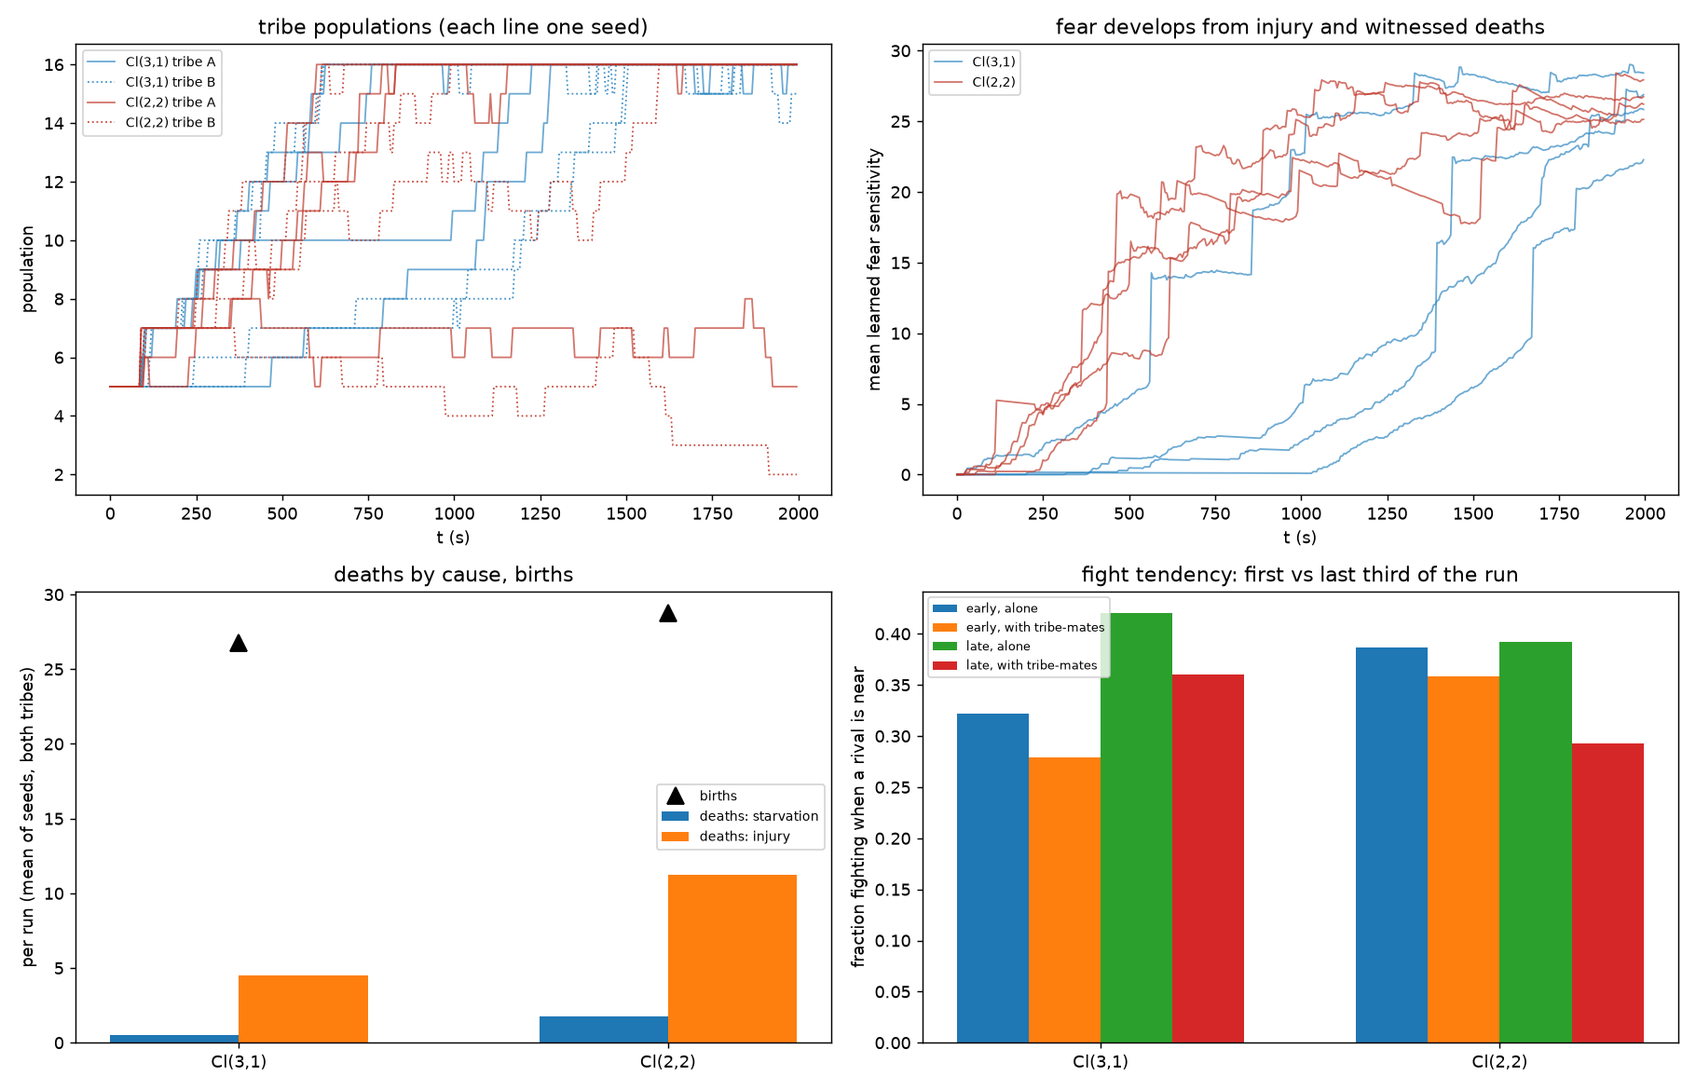
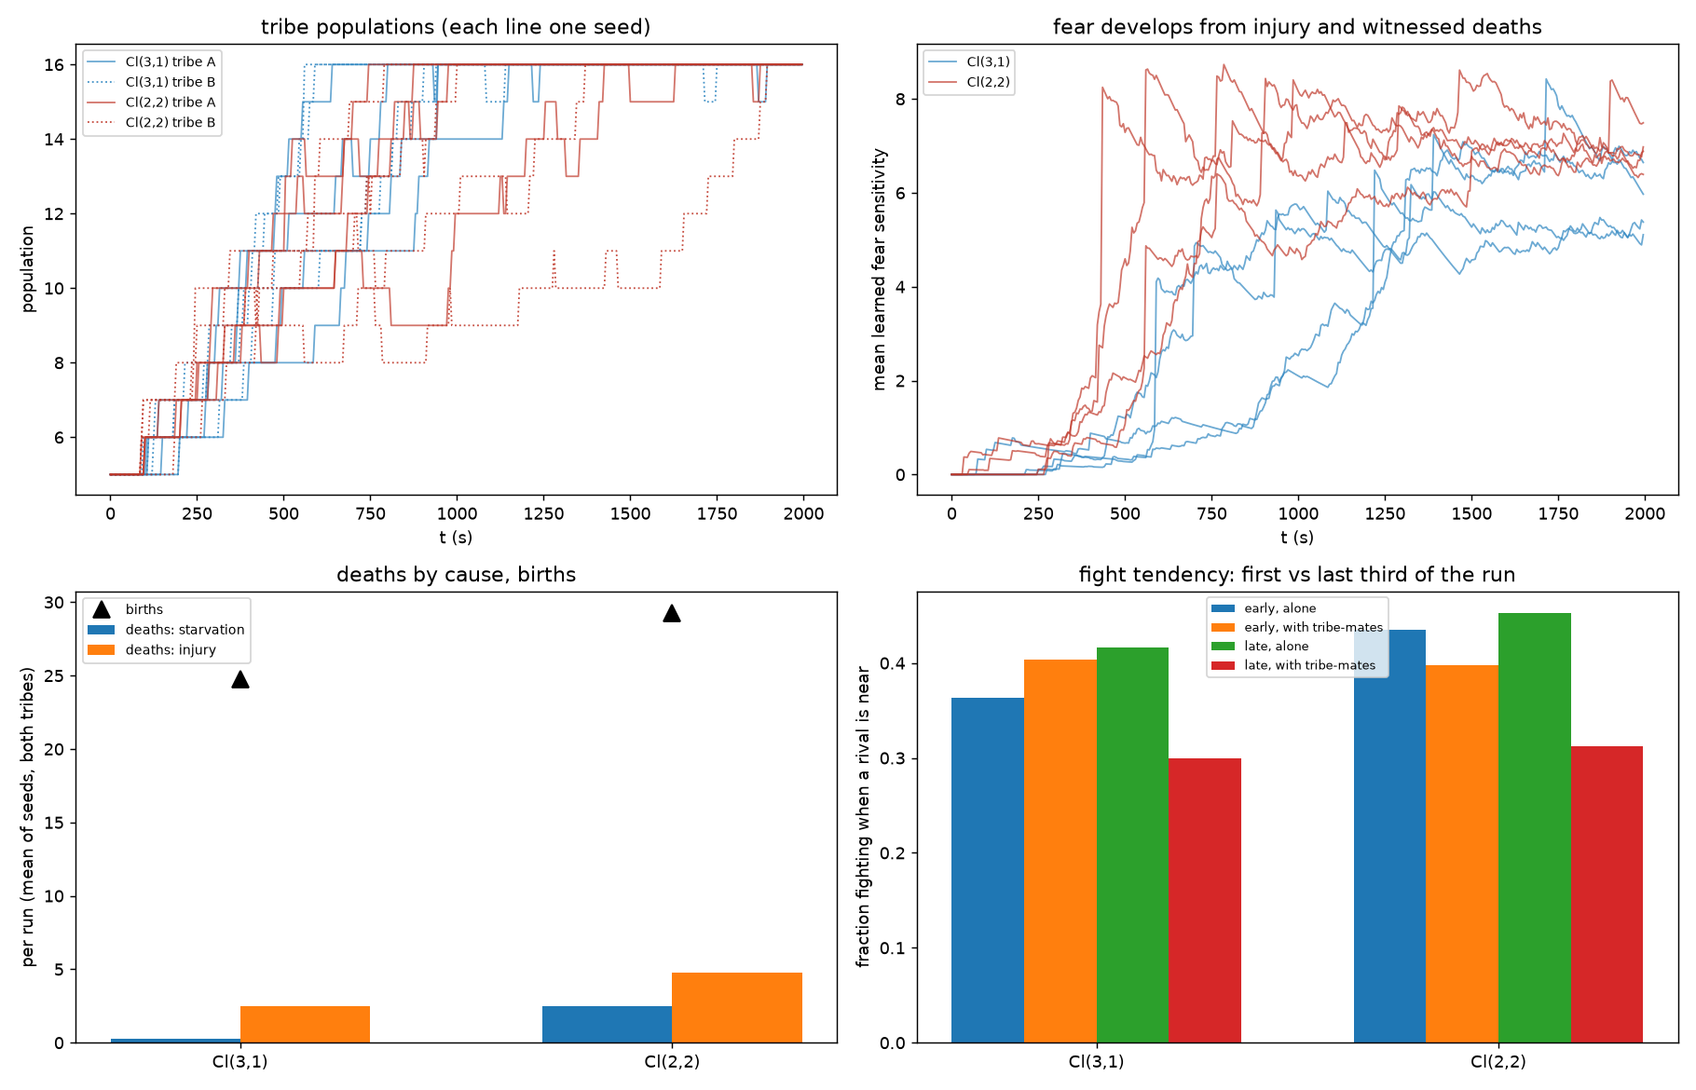
Contextual fear, danger-cue dread recall, fear cap, bigger world, false food
- Fear is scaled by being outnumbered: perceived threat * rivals in view /
  (1 + allies near). Fear sensitivity is capped at 12 and fades 4x faster.
- Dread (imprinted) memories are matched on danger cues only (rival closing
  speed, rival distance, health, allies near) via a per-memory feature mask
  in the 512-byte record; other memories match on all features.
- Full-life world is 200 x 200 (homes and fixed food sites scaled), with
  food supply scaled to the area.
- False food: 30% of patches look like food but give no satiety, never
  deplete and expire after 240 s; an agent learns a patch is false by trying
  to eat there for 2 s and then ignores it. The viewer marks them.
- E9 re-run; 93 tests.

diff --git a/cliffnpc/arena.py b/cliffnpc/arena.py
@@ -37,6 +37,9 @@ from .steering import steer
 
 NPC_FACTION, RIVAL_FACTION = "npc", "rival"     # legacy arena: NPC pack vs anti-social rival
 TRIBE_A, TRIBE_B = "A", "B"                       # tribes arena: two identical tribes
+# sense features (sense_vector): food dist, closing, peers, from home, rival dist, health,
+# pain, allies.  Dread memories are matched on the danger cues only.
+DANGER_MASK = np.array([0, 1, 0, 0, 1, 1, 0, 1], dtype=np.float32)
 
 
 def npc_cognition() -> CognitionConfig:
@@ -96,11 +99,14 @@ def life_config(signature=(1.0, 1.0, 1.0, -1.0), seed: int = 0, sat_gain: float 
     (death, birth, inheritance, witnessing, injury reflex), learned fear, the
     saturation law and finite moving food, with one drive signature for every agent."""
     cfg = ArenaConfig(seed=seed, ltm=LTMConfig(), life=LifeConfig(), signature=signature,
-                      tribes=True, home=(15.0, 50.0), lair=(85.0, 50.0),
-                      food=((50.0, 30.0), (50.0, 70.0)),       # fixed sites, equidistant
-                      food_dynamics=FoodConfig())
+                      tribes=True, home=(30.0, 100.0), lair=(170.0, 100.0),
+                      food=((100.0, 60.0), (100.0, 140.0)),    # fixed sites, equidistant
+                      food_dynamics=FoodConfig(max_patches=6, spawn_rate=1.0 / 30.0,
+                                               false_fraction=0.3))
+    cfg.base.world.size = 200.0        # a bigger world: room to explore and to miss each other
     for a in (cfg.npc_affect, cfg.rival_affect):
-        a.fear_from_injury, a.fear_from_death, a.fear_decay = 10.0, 10.0, 0.0005
+        a.fear_from_injury, a.fear_from_death, a.fear_decay = 10.0, 10.0, 0.002
+        a.fear_max = 12.0              # fear cannot saturate into a constant pain
     for c in (cfg.npc_cog, cfg.rival_cog):
         c.sat_gain = sat_gain
         c.hunger_drift = 0.08          # hunger builds faster ...
@@ -128,6 +134,8 @@ class Agent:
     replaying: int = -1         # memory slot being replayed (-1: none)
     slot: int = -1              # index in the capacity-wide logs
     known_food: dict = field(default_factory=dict)   # patch id -> position (seen, finite food)
+    known_false: set = field(default_factory=set)    # patch ids found to be false food
+    probe: dict = field(default_factory=dict)         # patch id -> seconds tried without satiety
     generation: int = 0
     born: float = 0.0
     last_birth: float = -1e9
@@ -235,10 +243,18 @@ class Arena:
         m = self.fd.margin
         return self.food_rng.uniform(m, self.wcfg.size - m, 2)
 
-    def _spawn(self, pos: np.ndarray, stock: float) -> None:
-        self.patches.append(dict(id=self._patch_id, pos=pos, stock=stock, stock0=stock))
-        self.food_events.append(dict(t=self.t, what="spawned", id=self._patch_id, pos=pos.copy()))
+    def _spawn(self, pos: np.ndarray, stock: float, false: bool = False) -> None:
+        self.patches.append(dict(id=self._patch_id, pos=pos, stock=stock, stock0=stock,
+                                 false=false, born=self.t))
+        self.food_events.append(dict(t=self.t, what="spawned", id=self._patch_id, pos=pos.copy(),
+                                     false=false))
         self._patch_id += 1
+
+    def _eating(self, a: Agent) -> bool:
+        """At a real patch with stock left (false food gives no satiety)."""
+        r = self.cfg.npc_cog.eat_radius
+        return a.mobile and any(not p["false"] and p["stock"] > 0
+                                and np.linalg.norm(a.pos - p["pos"]) < r for p in self.patches)
 
     def _food_step(self, dt: float) -> None:
         """Eaters deplete patches; empty patches vanish; new ones may spawn."""
@@ -246,13 +262,27 @@ class Arena:
             return
         r = self.cfg.npc_cog.eat_radius
         for p in list(self.patches):
-            eaters = sum(a.mobile and np.linalg.norm(a.pos - p["pos"]) < r for a in self.agents)
-            p["stock"] -= self.fd.take_rate * eaters * dt
+            at = [a for a in self.agents if a.mobile and np.linalg.norm(a.pos - p["pos"]) < r]
+            if p["false"]:
+                # trying to eat here yields nothing; after a while the agent knows
+                for a in at:
+                    a.probe[p["id"]] = a.probe.get(p["id"], 0.0) + dt
+                    if a.probe[p["id"]] >= self.fd.discover_time and p["id"] not in a.known_false:
+                        a.known_false.add(p["id"])
+                        a.known_food.pop(p["id"], None)
+                        self.food_events.append(dict(t=self.t, what="discovered_false",
+                                                     id=p["id"], by=a.name))
+                if self.t - p["born"] >= self.fd.false_lifetime:
+                    self.patches.remove(p)
+                    self.food_events.append(dict(t=self.t, what="expired", id=p["id"], pos=p["pos"]))
+                continue
+            p["stock"] -= self.fd.take_rate * len(at) * dt
             if p["stock"] <= 0:
                 self.patches.remove(p)
                 self.food_events.append(dict(t=self.t, what="depleted", id=p["id"], pos=p["pos"]))
         if len(self.patches) < self.fd.max_patches and self.food_rng.random() < self.fd.spawn_rate * dt:
-            self._spawn(self._spawn_spot(), self.fd.stock)
+            false = self.food_rng.random() < self.fd.false_fraction
+            self._spawn(self._spawn_spot(), self.fd.stock, false)
 
     # ---------------------------------------------------------------- perception
     def _rival_of(self, a: Agent) -> Agent | None:
@@ -284,7 +314,8 @@ class Arena:
 
     def percept(self, a: Agent) -> coupling.Percept:
         R = self.wcfg.sensor_radius
-        seen = [p for p in self.patches if np.linalg.norm(p["pos"] - a.pos) <= R]
+        seen = [p for p in self.patches if np.linalg.norm(p["pos"] - a.pos) <= R
+                and p["id"] not in a.known_false]          # known-false food is ignored
         foods = [p["pos"] - a.pos for p in seen]
         food_vec = min(foods, key=np.linalg.norm) if foods else None
         rival = self._rival_of(a)
@@ -350,10 +381,10 @@ class Arena:
         beta, _ = coupling.omega_ext(X, npc.cfg)
         if a.ltm is not None:
             beta = beta + self._replay_bivector(a)
-        eat = float(a.mobile and X[0] < npc.cfg.eat_radius)
+        eat = float(self._eating(a)) if self.fd is not None else float(a.mobile and X[0] < npc.cfg.eat_radius)
         a.affect.observe_injury(a.taken, a.dealt, h)
         a.taken = a.dealt = 0.0
-        a.affect.fear_now = self._fear_level(p, X)
+        a.affect.fear_now = self._fear_level(a, p, X)
         push = None
         if self.life is not None:     # injury reflex: the strongest repulsive drive
             push = np.array([0.0, 0.0, 0.0, -self.life.injury_reflex * a.affect.taken_rate])
@@ -372,12 +403,18 @@ class Arena:
             self.decisions.append((self.t, a.slot, self.allies_near(a), *map(float, npc.C),
                                    self.factions.index(a.faction)))
 
-    def _fear_level(self, p: coupling.Percept, X: np.ndarray) -> float:
-        """Perceived threat: rival proximity plus its closing speed (0 if none seen)."""
+    def _fear_level(self, a: Agent, p: coupling.Percept, X: np.ndarray) -> float:
+        """Perceived threat, scaled by how outnumbered the agent is:
+            (proximity + closing speed) * rivals in view / (1 + allies near)
+        Alone among enemies is frightening; inside one's group much less."""
         if p.threat_vec is None:
             return 0.0
         d = np.linalg.norm(p.threat_vec) / self.wcfg.sensor_radius
-        return float(max(0.0, 1.0 - d) + max(X[1], 0.0) / 5.0)
+        base = max(0.0, 1.0 - d) + max(X[1], 0.0) / 5.0
+        R = self.wcfg.sensor_radius
+        rivals = sum(b.faction != a.faction and b.mobile and np.linalg.norm(b.pos - a.pos) <= R
+                     for b in self.agents)
+        return float(base * rivals / (1.0 + self.allies_near(a)))
 
     def _replay_bivector(self, a: Agent) -> np.ndarray:
         """Recall: a generator in the plane C ^ C_target pulling the drives along
@@ -466,7 +503,8 @@ class Arena:
                 p = self.percept(w)
                 key = sense_vector(self, w, coupling.invariants(p, self.wcfg), p)
                 w.ltm.imprint(key, life.dread_valence * f * w.ltm.cfg.loss_aversion,
-                              np.array([0.0, 0.0, 0.5, 1.0]))   # about injury and fear
+                              np.array([0.0, 0.0, 0.5, 1.0]),   # about injury and fear
+                              mask=DANGER_MASK)                 # matched on danger cues only
             witnesses.append(w.name)
         self.deaths.append(dict(t=self.t, name=a.name, faction=a.faction, cause=cause,
                                 generation=a.generation, pos=a.pos.copy(),

diff --git a/cliffnpc/ltm.py b/cliffnpc/ltm.py
@@ -73,6 +73,7 @@ def memory_dtype(cfg: LTMConfig) -> np.dtype:
         ("kind", "<i4"),
         ("active", "<i4"),
         ("origin", "<i4"),                        # index into ORIGINS
+        ("mask", "<f4", (cfg.sense_dim,)),        # sense features the key is matched on
     ], align=True)
     return np.dtype({"names": base.names,
                      "formats": [base.fields[n][0] for n in base.names],
@@ -213,12 +214,15 @@ class SequenceMemory:
         return self.store(key, seq, kind, val, np.maximum(prof, 0))
 
     # --- imprinting (forced memory creation, e.g. witnessing a death) --------
-    def imprint(self, key: np.ndarray, valence: float, profile: np.ndarray) -> None:
+    def imprint(self, key: np.ndarray, valence: float, profile: np.ndarray,
+                mask: np.ndarray | None = None) -> None:
         """Schedule a forced escape memory keyed by `key` (what was sensed at the
         moment).  Its sequence is the agent's *reaction*: the next seq_len
-        behaviour samples.  Stored without waiting for relief."""
+        behaviour samples.  Stored without waiting for relief.  mask: the sense
+        features the key is matched on at recall (default: all)."""
         self.pending.append(dict(key=np.asarray(key, np.float32).copy(), valence=float(valence),
-                                 profile=np.asarray(profile, float), left=self.cfg.seq_len))
+                                 profile=np.asarray(profile, float), left=self.cfg.seq_len,
+                                 mask=None if mask is None else np.asarray(mask, np.float32)))
 
     def _advance_imprints(self) -> dict | None:
         done = None
@@ -227,7 +231,7 @@ class SequenceMemory:
             if p["left"] <= 0 and self.hist_n >= self.cfg.seq_len:
                 seq = self._chrono(self.beh, self.hist_n, self.cfg.seq_len)
                 done = self.store(p["key"], seq, AVERSIVE, p["valence"], p["profile"],
-                                  origin="imprinted")
+                                  origin="imprinted", mask=p["mask"])
                 self.pending.remove(p)
         return done
 
@@ -240,12 +244,13 @@ class SequenceMemory:
         for j in best:
             self.store(s["key"][j].copy(), s["seq"][j].astype(float), int(s["kind"][j]),
                        float(s["strength"][j]) * factor, s["profile"][j].astype(float),
-                       origin="inherited")
+                       origin="inherited", mask=s["mask"][j].copy())
         return len(best)
 
     # --- store ---------------------------------------------------------------
     def store(self, key: np.ndarray, seq: np.ndarray, kind: int, valence: float,
-              profile: np.ndarray | None = None, origin: str = "experience") -> dict:
+              profile: np.ndarray | None = None, origin: str = "experience",
+              mask: np.ndarray | None = None) -> dict:
         """valence: the *weighted* valence (loss aversion already applied); it
         becomes the memory's strength.  profile: affect axes it relieved/rewarded
         (normalized here; default: all axes equally)."""
@@ -285,6 +290,7 @@ class SequenceMemory:
         s["kind"][j] = kind
         s["profile"][j] = prof
         s["origin"][j] = ORIGINS.index(origin)
+        s["mask"][j] = 1.0 if mask is None else mask
         s["active"][j] = 1
         ev = dict(t=self.t, what="stored", slot=j, kind=kind, valence=valence,
                   evicted=not len(free), origin=origin)
@@ -334,14 +340,18 @@ class SequenceMemory:
         keys = s["key"][act]
         # loss aversion: escape memories tolerate loss_aversion x the squared mismatch
         tol = np.where(s["kind"][act] == AVERSIVE, c.loss_aversion, 1.0) * c.match_radius ** 2
-        d2 = ((stm[:, None, :] - keys[None, :, :]) ** 2).sum(-1) / tol
+        # match only on each memory's masked features, rescaled to the full width
+        masks = s["mask"][act]
+        width = c.sense_dim / np.maximum(masks.sum(1), 1.0)
+        d2 = (((stm[:, None, :] - keys[None, :, :]) ** 2 * masks[None]).sum(-1)
+              * width[None] / tol)
         gate = self.gates(act)                          # present pain / reward weighting
         support = np.exp(-d2.min(axis=0)) * gate        # how present each key is in STM
         cue = stm[np.unravel_index(np.argmin(d2), d2.shape)[0]].astype(float)
         logw = np.log(np.maximum(s["strength"][act] * gate, 1e-12))
         q = cue
         for _ in range(c.hopfield_iters):              # settle into a basin
-            e = -((keys - q) ** 2).sum(-1) / tol
+            e = -(((keys - q) ** 2 * masks).sum(-1) * width) / tol
             w = np.exp(c.hopfield_beta * e + logw - (c.hopfield_beta * e + logw).max())
             w /= w.sum()
             q = w @ keys

diff --git a/experiments/e9_life_signature.py b/experiments/e9_life_signature.py
@@ -11,9 +11,12 @@ Life is on: starvation and injury kill (speed falls with injury), witnessing a
 death shocks, sensitizes fear and imprints an escape memory, well-fed pairs
 reproduce and children inherit memories, personality frame and part of their
 fear.  Injury drives flight through the strongest reflex.  Satiety slows a little.
-Food is finite: patches run out as they are eaten; new ones spawn half at two
-fixed sites (equidistant from both homes) and half anywhere; agents only know
-patches they have seen.  Hunger builds fast, starvation begins at 0.8, and
+The world is 200 x 200.  Food is finite: patches run out as they are eaten; new
+ones spawn half at two fixed sites (equidistant from both homes) and half
+anywhere; 30% are false (look like food, give no satiety, found out only by
+trying to eat); agents only know patches they have seen.  Fear is scaled by how
+outnumbered the agent is, is capped at 12 and fades; dread memories match on
+danger cues only.  Hunger builds fast, starvation begins at 0.8, and
 hungry agents search with weight hunger + 2 hunger^2.  A cubic saturation law
 contains boost runaways under either signature.
 """
@@ -78,6 +81,8 @@ def one(job):
         pain=float(np.nanmean(np.where(alive, log["pain"], np.nan))),
         hunger=float(np.nanmean(np.where(alive, log["C"][:, :, 0], np.nan))),
         depleted=sum(e["what"] == "depleted" for e in ar.food_events),
+        false_found=sum(e["what"] == "discovered_false" for e in ar.food_events),
+        rival_exposure=len(ar.decisions) / max(float(alive.sum()), 1.0),
         fight_early=fight_stats(dec, 0, T / 3), fight_late=fight_stats(dec, 2 * T / 3, T),
     )
 
@@ -150,6 +155,8 @@ rows = [
     ("witness events", lambda r: sum(d[3] for d in r["deaths"])),
     ("imprinted memories", lambda r: r["imprinted"]),
     ("food patches depleted", lambda r: r["depleted"]),
+    ("false food discoveries", lambda r: r["false_found"]),
+    ("share of time with a rival in view", lambda r: r["rival_exposure"]),
     ("fights per agent-hour", lambda r: r["fights_per_agent_hour"]),
     ("fights with one side outnumbered 1:n", lambda r: r["outnumbered"] / max(r["engagements"], 1)),
     ("mean pain", lambda r: r["pain"]),
@@ -165,8 +172,9 @@ rows = [
 ]
 lines = ["E9 Life and signature: two tribes", "==================================",
          f"{len(SEEDS)} seeds x {T:.0f} s per signature; one signature per simulation, runs in parallel.",
-         "Two identical tribes (5 each at start), symmetric combat, finite food (half at two fixed",
-         "sites, half random), life on, sequence memory, pain-aversion learning, learned fear.",
+         "Two identical tribes (5 each at start), symmetric combat, 200x200 world, finite food (half at",
+         "two fixed sites, half random, 30% false), life on, sequence memory, pain-aversion learning,",
+         "learned fear scaled by being outnumbered (cap 12, fading), dread memories matched on danger cues.",
          "", f"{'':38s}" + "".join(f"{n:>20s}" for n in SIGNATURES)]
 for lab, f in rows:
     lines.append(f"{lab:38s}" + "".join(f"{m(n, f):>20s}" for n in SIGNATURES))

diff --git a/tests/test_life.py b/tests/test_life.py
@@ -299,3 +299,70 @@ def test_half_of_food_spawns_at_the_fixed_sites():
             rand += 1
     assert 0.4 < fixed / (fixed + rand) < 0.6
     assert all(any(np.allclose(p["pos"], s) for s in sites) for p in _tribes(1).patches)
+
+
+def test_fear_scales_with_being_outnumbered():
+    ar = _tribes(3)
+    A = [x for x in ar.agents if x.faction == TRIBE_A]
+    B = [x for x in ar.agents if x.faction == TRIBE_B]
+    a = A[0]
+    for k, x in enumerate(A[1:] + B):                  # everyone far away
+        x.pos = np.array([5.0 + 10 * k, 5.0])
+    a.pos = np.array([100.0, 100.0])
+    B[0].pos = a.pos + np.array([10.0, 0.0])
+    fear = lambda: ar._fear_level(a, ar.percept(a), np.zeros(4))  # noqa: E731
+    one_on_one = fear()
+    B[1].pos = a.pos + np.array([0.0, 10.0])
+    outnumbered = fear()
+    A[1].pos = a.pos + np.array([2.0, 0.0])
+    A[2].pos = a.pos + np.array([-2.0, 0.0])
+    with_mates = fear()
+    assert np.isclose(outnumbered, 2 * one_on_one)
+    assert np.isclose(with_mates, outnumbered / 3)
+
+
+def test_dread_memories_match_on_danger_cues_only():
+    from cliffnpc.arena import DANGER_MASK
+    from cliffnpc.ltm import SequenceMemory
+    m = SequenceMemory(LTMConfig())
+    key = np.array([0.9, 0.8, 0.0, 0.2, 0.1, 0.4, 0.5, 0.0], np.float32)   # the death scene
+    m.store(key, np.zeros((16, 4)), AVERSIVE, 3.0, np.array([0, 0, 0.5, 1.0]),
+            origin="imprinted", mask=DANGER_MASK)
+    elsewhere = key.copy()
+    elsewhere[[0, 2, 3, 6]] = [0.1, 0.9, 0.9, -0.5]  # different place, same danger
+    m.observe(elsewhere, np.zeros(4), 1.0, 0.0, affect=np.array([0, 0, 0, 1.0]))
+    assert m.recall() is not None
+
+
+def test_fear_is_capped_and_fades():
+    ar = _tribes(1)
+    a = ar.agents[0]
+    a.affect.sensitize(100.0)
+    assert a.affect.fear_learned == ar.cfg.npc_affect.fear_max == 12.0
+    a.affect.observe_injury(0.0, 0.0, 100.0)
+    assert a.affect.fear_learned < 12.0 * np.exp(-0.15)
+
+
+def test_bigger_world():
+    ar = _tribes(1)
+    assert ar.wcfg.size == 200.0
+    assert all(0 <= p["pos"][0] <= 200 and 0 <= p["pos"][1] <= 200 for p in ar.patches)
+
+
+def test_false_food_gives_no_satiety_until_discovered_then_is_ignored():
+    ar = _tribes(1, spawn_rate=0.0)
+    a = next(x for x in ar.agents if x.faction == TRIBE_A)
+    ar.patches.clear()
+    ar._spawn(np.array([60.0, 60.0]), 5.0, false=True)
+    p = ar.patches[0]
+    a.pos = p["pos"] + np.array([0.5, 0.0])
+    assert not ar._eating(a)                          # looks like food, feeds nothing
+    assert ar.percept(a).food_vec is not None         # still appears as food
+    for _ in range(int(ar.fd.discover_time / 0.1) + 2):
+        ar._food_step(0.1)
+    assert p["id"] in a.known_false
+    assert ar.percept(a).food_vec is None             # now ignored
+    assert p["stock"] == 5.0                          # never depletes
+    ar.t = p["born"] + ar.fd.false_lifetime + 1
+    ar._food_step(0.1)
+    assert not ar.patches                             # expires

diff --git a/cliffnpc/arena_viewer.py b/cliffnpc/arena_viewer.py
@@ -79,8 +79,8 @@ class ArenaViewer(Viewer):
         A = self._anim
 
         ax = self.ax_world
-        ax.set_xlim(0, 100)
-        ax.set_ylim(0, 100)
+        self.false_sc = A(ax.scatter([], [], s=60, marker="x", color="k", linewidths=1.5,
+                                     label="false food (viewer only)"))
         ax.set_aspect("equal")
         ax.set_xticks([])
         ax.set_yticks([])
@@ -172,6 +172,10 @@ class ArenaViewer(Viewer):
 
     def _place_static(self) -> None:
         cfg = self.arena.cfg
+        size = self.arena.wcfg.size
+        self.ax_world.set_xlim(0, size)
+        self.ax_world.set_ylim(0, size)
+        self.sensor_art.set_radius(self.arena.wcfg.sensor_radius)
         self.home_art.set_data([cfg.home[0]], [cfg.home[1]])
         self.lair_art.set_data([cfg.lair[0]], [cfg.lair[1]])
         self.dirty = True
@@ -251,6 +255,7 @@ class ArenaViewer(Viewer):
         self.food_sc.set_offsets(np.array([p["pos"] for p in P]).reshape(-1, 2))
         self.food_sc.set_sizes([40 + 260 * min(p["stock"] / p["stock0"], 1.0) if np.isfinite(p["stock0"])
                                 else 200 for p in P])
+        self.false_sc.set_offsets(np.array([p["pos"] for p in P if p.get("false")]).reshape(-1, 2))
         self._scatter(self.npc_sc, npcs)
         self._scatter(self.rival_sc, rivals)
         recent_d = [d for d in ar.deaths if ar.t - d["t"] < MARK_SECONDS]

diff --git a/cliffnpc/config.py b/cliffnpc/config.py
@@ -155,6 +155,11 @@ class FoodConfig:
     margin: float = 10.0                # spawn away from the walls
     fixed_sites: tuple | None = None    # recurring spawn sites (None: the arena's food spots)
     fixed_fraction: float = 0.5         # share of spawns at a free fixed site; the rest random
+    # False food: looks like food, gives no satiety, never depletes, vanishes after
+    # a lifetime.  An agent learns a patch is false by trying to eat there.
+    false_fraction: float = 0.0
+    false_lifetime: float = 240.0
+    discover_time: float = 2.0          # seconds of eating with no satiety before it knows
 
 
 @dataclass
